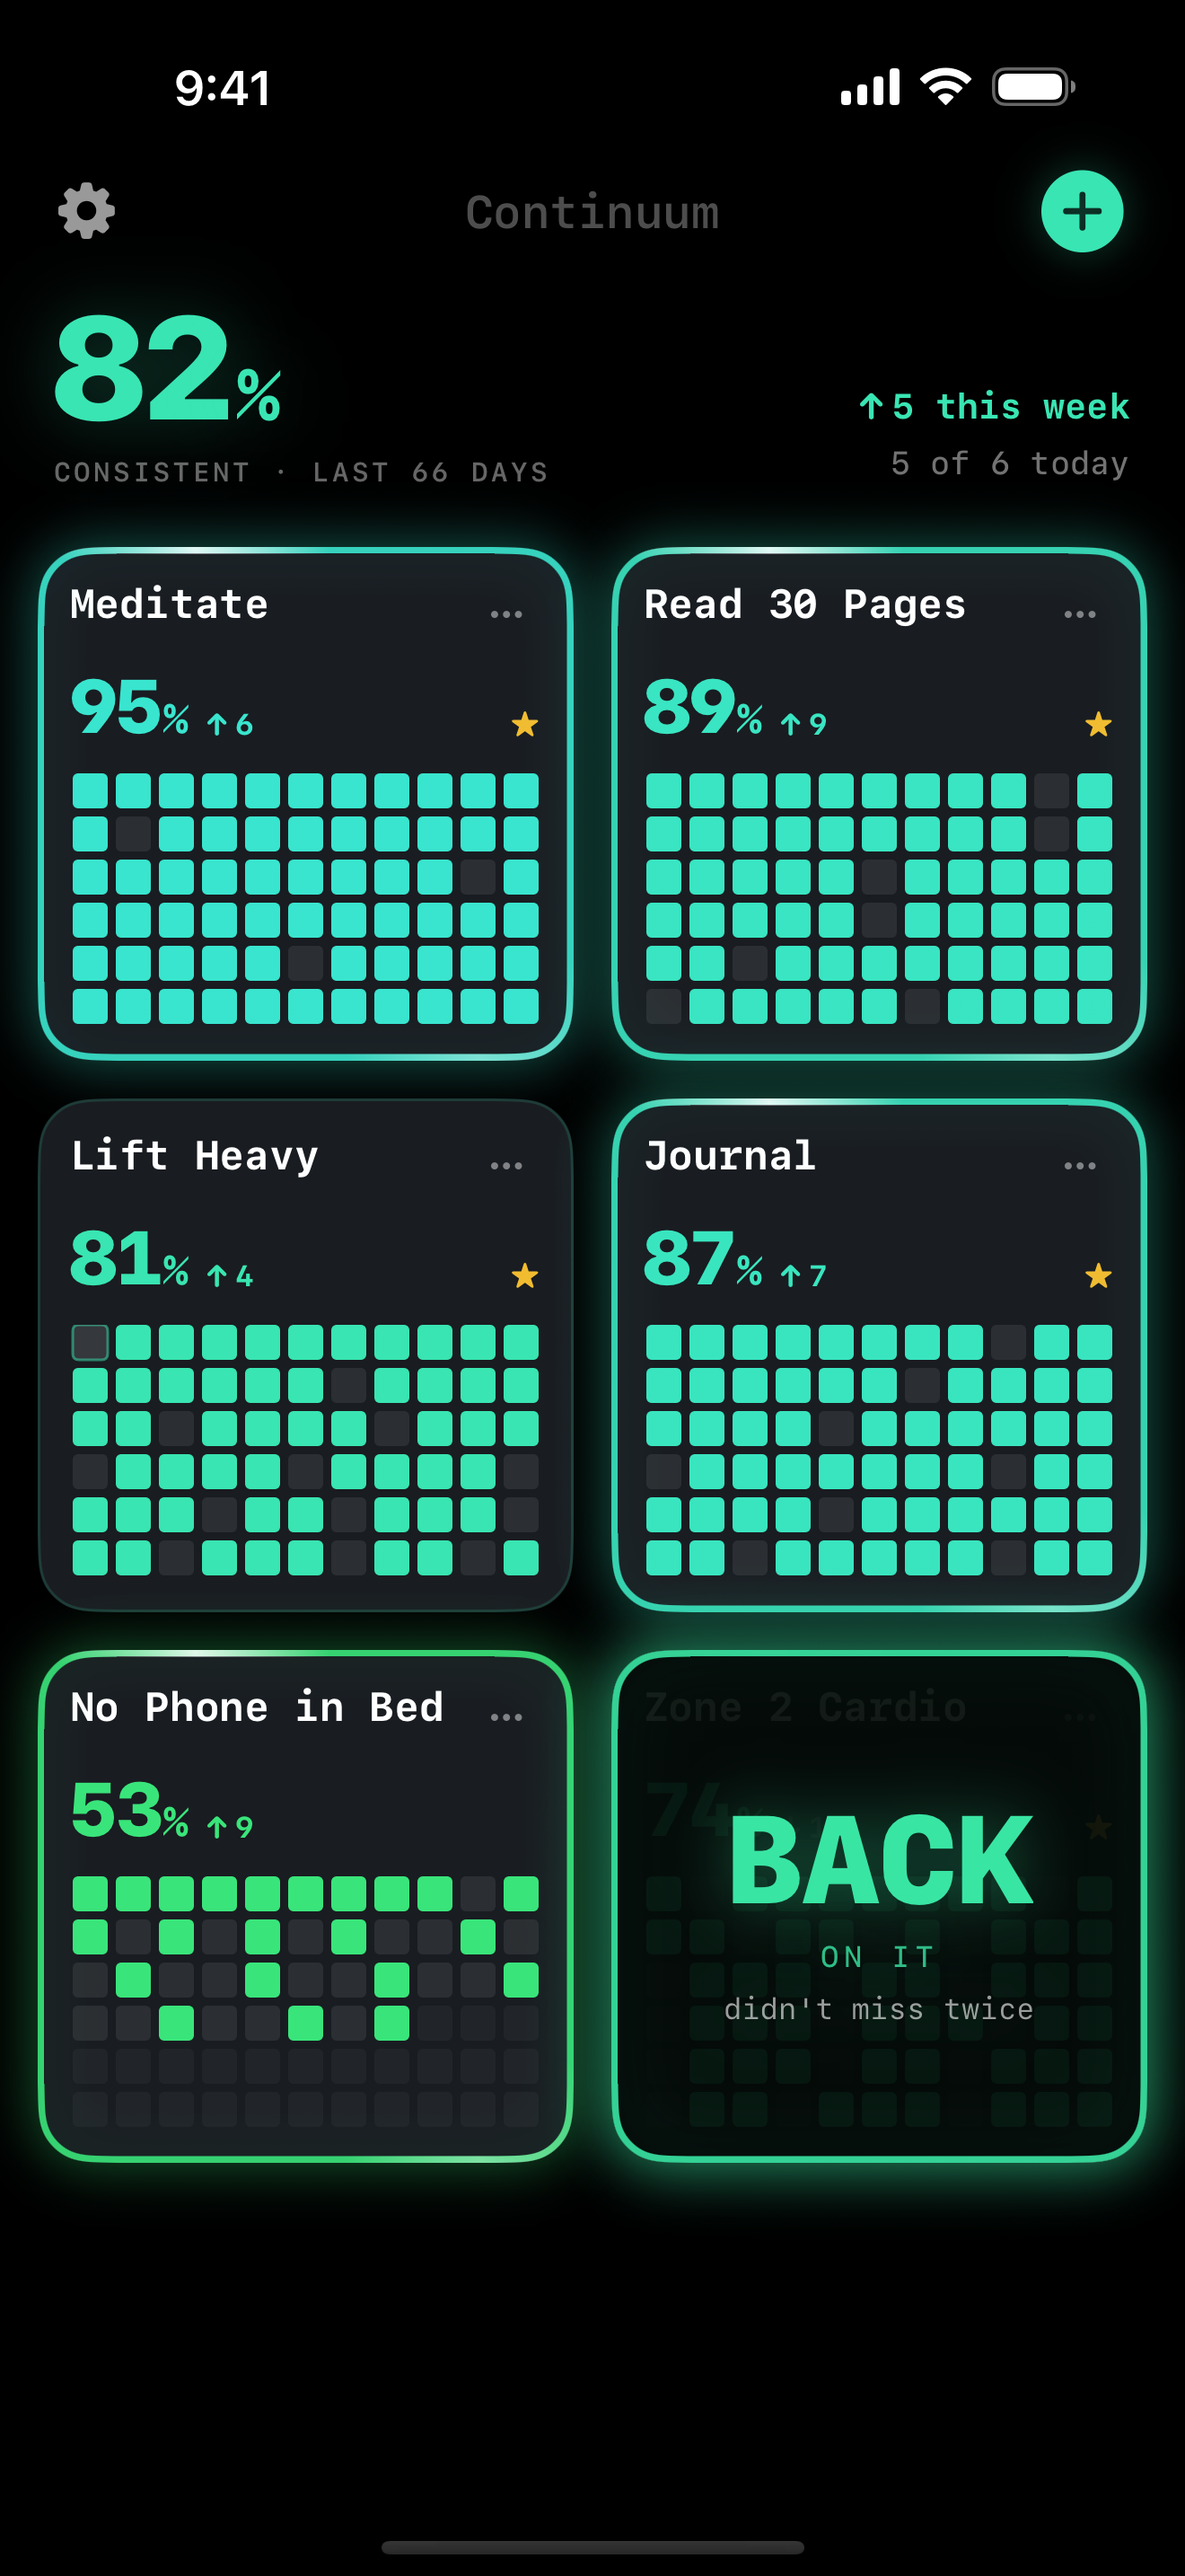
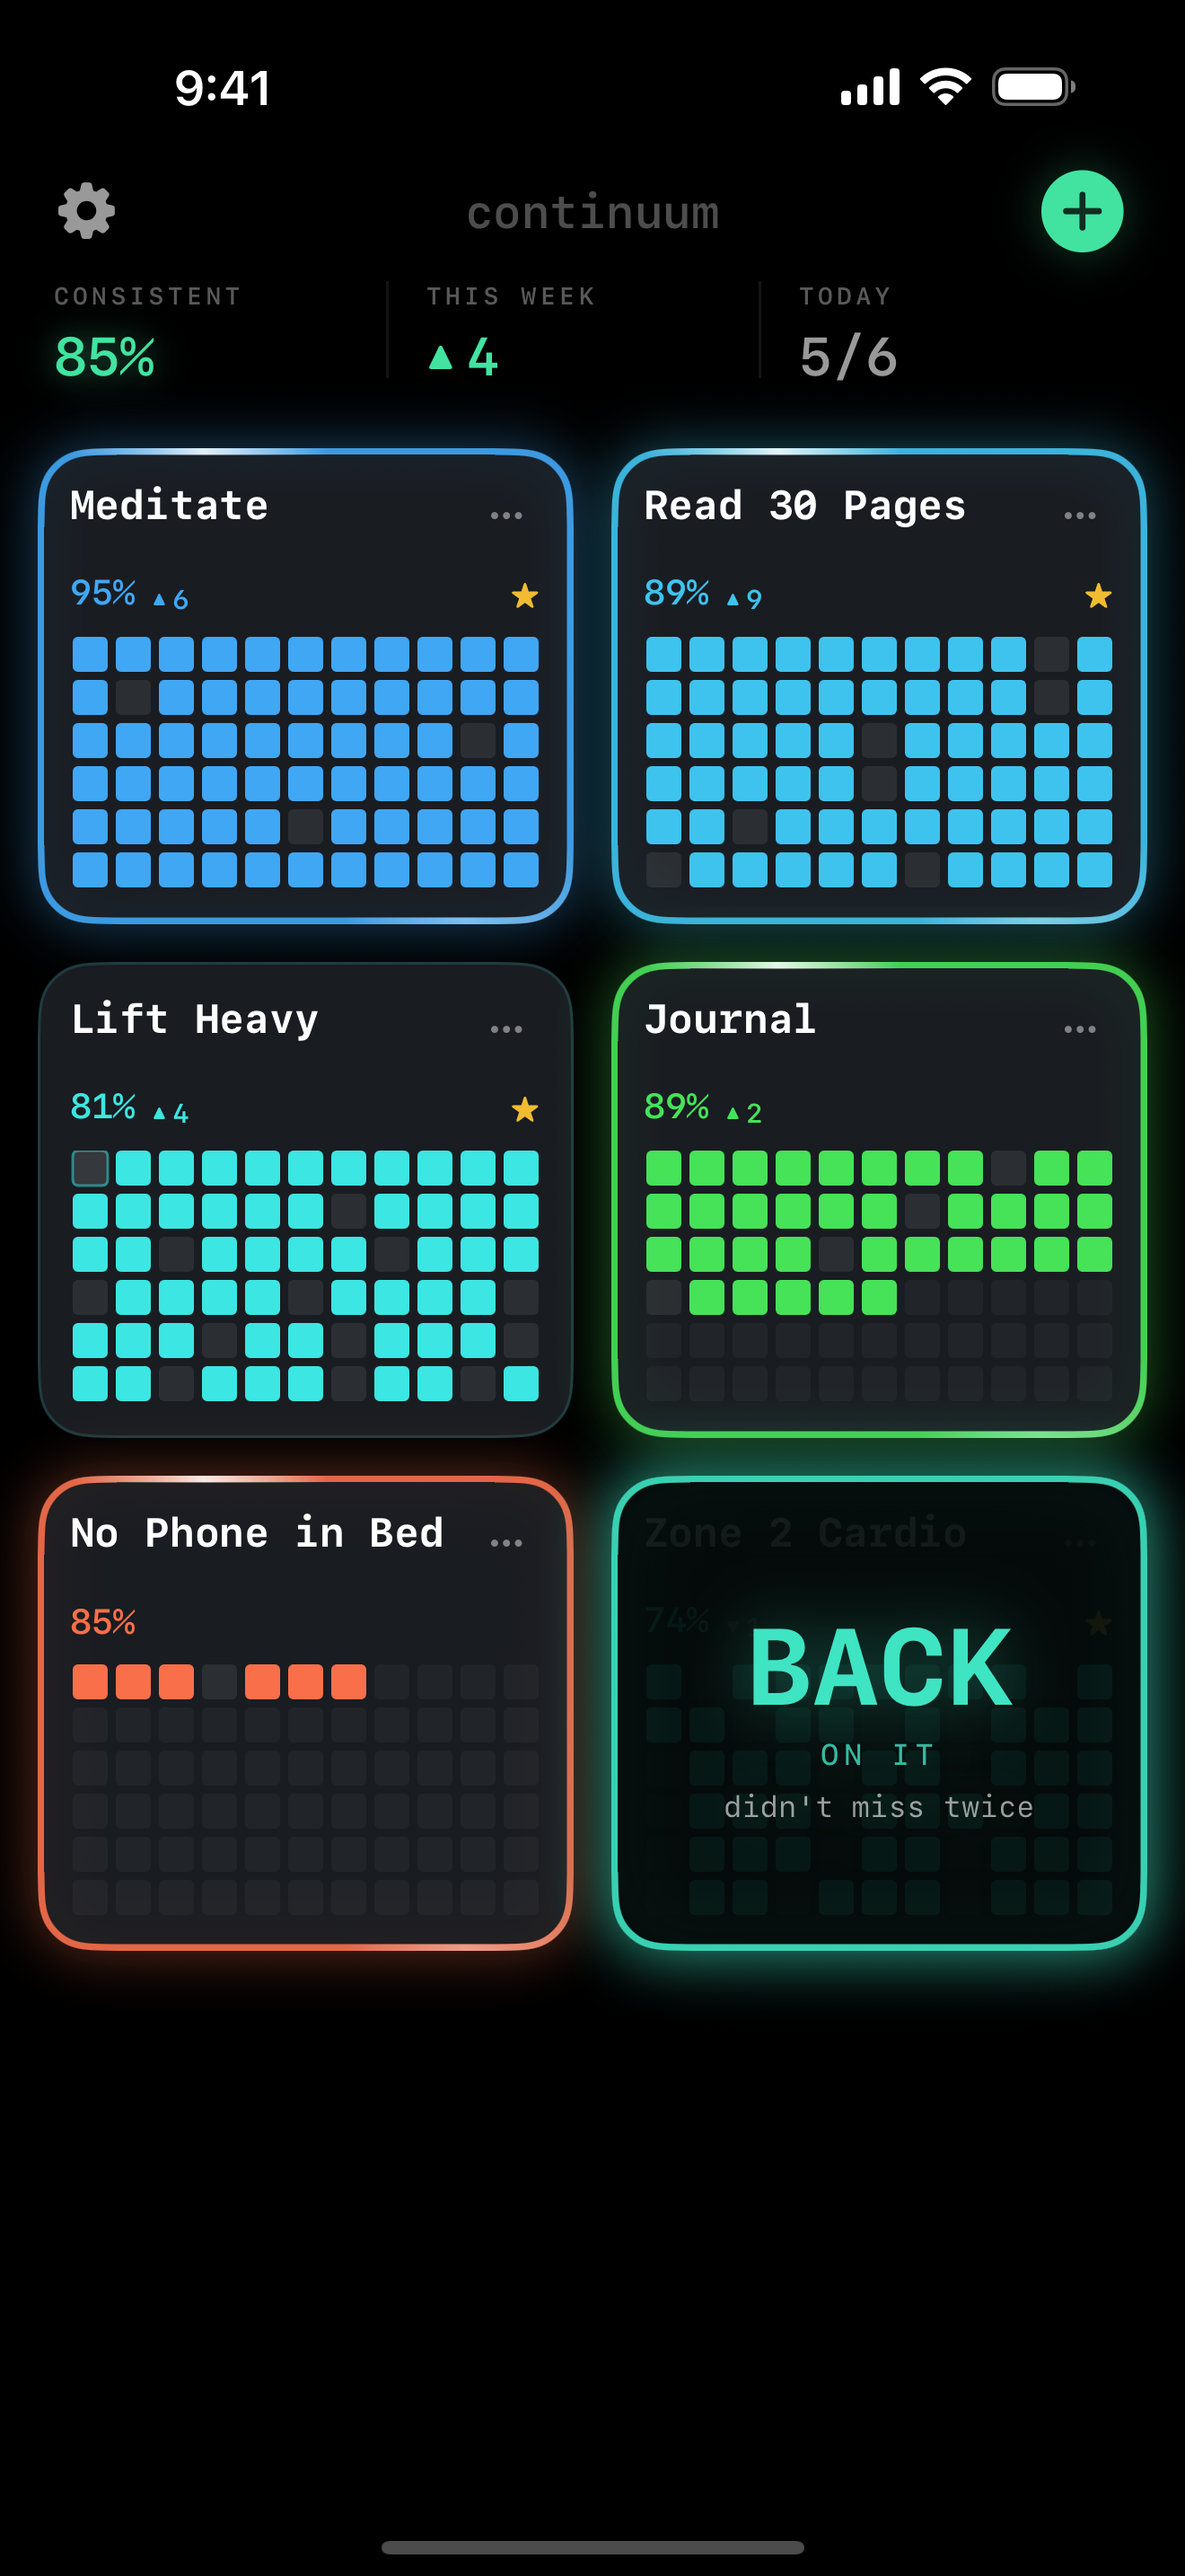
Screenshots, notes and spec for the readout look
- All five App Store shots recaptured: readouts in the app's mono, the
  lowercase title, and a home shot whose cards run coral to blue (85%,
  up 4, 4 of 6). The captions' accent is the new ramp's colour at 85%.
- What's New: the number is a small readout now, and a paragraph on
  colour following the grid.
- The spec records the type and colour rules as built; docs/ASO.md the
  new home shot.
- The release skill: the gesture shots were taken with temporary launch
  switches instead of DeviceHub taps, widgets can be checked by rendering
  their views in the app, and region captures of DeviceHub can catch
  other apps' windows.

diff --git a/scripts/caption-screenshots.py b/scripts/caption-screenshots.py
@@ -17,12 +17,13 @@ from PIL import Image, ImageDraw, ImageFilter, ImageFont
 W, H = 1320, 2868
 FONT = "/System/Library/Fonts/SFNSMono.ttf"
 
-# The app's colour for a habit around 85% consistent (HabitCardView.healthColor)
-TEAL = tuple(round(c * 255) for c in colorsys.hsv_to_rgb(164.5 / 360, 0.75, 0.9))
+# The app's colour for a habit kept up at 85% for 66 days (Shared/HabitPalette.swift
+# at 0.85): the azure between its cyan and blue stops
+ACCENT = tuple(round(c * 255) for c in colorsys.hsv_to_rgb(187 / 360, 0.74, 0.92))
 WHITE = (242, 244, 245)
 GREY = (122, 130, 138)
 
-# raw capture, output name, headline (white), headline (teal), small line,
+# raw capture, output name, headline (white), headline (accent), small line,
 # and optionally a region of the capture (px) to magnify over the phone
 SHOTS = [
     ("home.png", "01_consistency.png", "Miss a day.", "Nothing resets.", "one number per habit", None),
@@ -30,7 +31,7 @@ SHOTS = [
     ("stats.png", "03_week_by_week.png", "12 weeks.", "Watch it climb.", None, None),
     ("graduation.png", "04_66_days.png", "66 days.", "Not in a row.", None, None),
     # The half-traced border is invisible at thumbnail size, so the held card is magnified
-    ("hold_final.png", "05_hold.png", "Hold to mark", "the day.", "harder to do by accident", (20, 1195, 660, 1815)),
+    ("hold_final.png", "05_hold.png", "Hold to mark", "the day.", "harder to do by accident", (20, 1030, 660, 1628)),
 ]
 
 
@@ -41,12 +42,12 @@ def font(size, weight):
 
 
 def background():
-    """Dark slate like the app, with a soft teal glow where the phone sits."""
+    """Dark slate like the app, with a soft accent glow where the phone sits."""
     img = Image.new("RGB", (W, H), (9, 11, 13))
     glow = Image.new("L", (W, H), 0)
     ImageDraw.Draw(glow).ellipse((W * 0.05, H * 0.28, W * 0.95, H * 0.62), fill=255)
     glow = glow.filter(ImageFilter.GaussianBlur(220))
-    tint = Image.new("RGB", (W, H), TEAL)
+    tint = Image.new("RGB", (W, H), ACCENT)
     return Image.composite(tint, img, glow.point(lambda v: int(v * 0.22)))
 
 
@@ -67,12 +68,12 @@ def phone(raw, width):
 
 
 def callout(raw, box, width):
-    """A region of the capture, magnified, with a teal edge so it reads as a zoom."""
+    """A region of the capture, magnified, with an accent edge so it reads as a zoom."""
     region = raw.crop(box)
     region = region.resize((width, round(region.height * width / region.width)), Image.LANCZOS)
     card = Image.new("RGBA", (region.width + 16, region.height + 16), (0, 0, 0, 0))
     d = ImageDraw.Draw(card)
-    d.rounded_rectangle((0, 0, card.width - 1, card.height - 1), 56, fill=TEAL + (255,))
+    d.rounded_rectangle((0, 0, card.width - 1, card.height - 1), 56, fill=ACCENT + (255,))
     mask = Image.new("L", region.size, 0)
     ImageDraw.Draw(mask).rounded_rectangle((0, 0, region.width - 1, region.height - 1), 48, fill=255)
     card.paste(region, (8, 8), mask)
@@ -85,7 +86,7 @@ def compose(raw_path, headline, accent, small, zoom=None):
 
     big = font(108, "Bold")
     y = 170
-    for text, colour in ((headline, WHITE), (accent, TEAL)):
+    for text, colour in ((headline, WHITE), (accent, ACCENT)):
         x = (W - d.textlength(text, font=big)) / 2
         d.text((x, y), text, font=big, fill=colour)
         y += 132
@@ -107,7 +108,7 @@ def compose(raw_path, headline, accent, small, zoom=None):
         y = 1560
         glow = Image.new("RGBA", img.size, (0, 0, 0, 0))
         ImageDraw.Draw(glow).rounded_rectangle(
-            ((W - card.width) / 2, y, (W + card.width) / 2, y + card.height), 56, fill=TEAL + (150,))
+            ((W - card.width) / 2, y, (W + card.width) / 2, y + card.height), 56, fill=ACCENT + (150,))
         img = Image.alpha_composite(img, glow.filter(ImageFilter.GaussianBlur(40)))
         img.alpha_composite(card, ((W - card.width) // 2, y))
     return img.convert("RGB")

diff --git a/docs/superpowers/specs/2026-09-29-consistency-first-design.md b/docs/superpowers/specs/2026-09-29-consistency-first-design.md
@@ -57,18 +57,35 @@ It needs 7 counted days at the comparison point, so it appears from a habit's
 
 ## Where it shows
 
-- **Home header** — pooled consistency, big, with the week's trend and today's
-  count ("5 of 6 today"). 3.7 cut the greeting header for being text; this one
+- **Home header** — three readouts: pooled consistency, the week's trend, and
+  today's count ("4/6"). 3.7 cut the greeting header for being text; this one
   is the metric.
-- **Card** — the percentage replaces the ring and the streak row: big number,
-  trend, then the grid. Days before a habit's first completion draw fainter than
-  misses, so a new habit's grid agrees with its 100%.
-- **Stats** — consistency hero, a 12-week bar chart (each bar is one 7-day
+- **Card** — the percentage replaces the ring and the streak row: a readout
+  with its trend, then the grid. Days before a habit's first completion draw
+  fainter than misses, so a new habit's grid agrees with its 100%.
+- **Stats** — consistency readout, a 12-week bar chart (each bar is one 7-day
   block), then days done, all-time %, best run, perfect weeks, and the year
   heatmap. The streak survives here as "best run".
 - **Widgets** — percentage wherever a streak was.
-- **Share card** — the percentage is the hero; "DAY STREAK" goes.
+- **Share card** — the percentage leads; "DAY STREAK" goes.
 - **Settings** — the reorder list shows each habit's percentage.
+
+## Look
+
+Revised 2026-09-30, after 3.8 was tried on a phone: the big numbers read as a
+different font, they were too big, and the app should feel more like an old
+computer dashboard.
+
+- **Type.** One face, the app's SF Mono, at semibold or bold. No heavy, black
+  or SF Pro Rounded anywhere; the widget now sets the same mono the app does.
+  Numbers are readouts under small tracked labels: 20pt in the home header,
+  13pt on a card, 34pt on stats, 120px on the share card. Trends are ▲ and ▼.
+  The title is "continuum", lower case.
+- **Colour.** One ramp, `Shared/HabitPalette.swift`: coral red, orange, green,
+  cyan, blue. `HabitMath.colorProgress` places a habit on it — consistency
+  times the share of the 66-day window tracked, which is the share of the grid
+  that's lit. A week-old habit at 100% is coral; blue takes 66 days and a high
+  number. Pooled over n habits it's days done ÷ 66n.
 
 ## Moments
 
@@ -123,13 +140,13 @@ Five, captured from the running app on an iPhone 16 Pro Max simulator
 (1320x2868) with seeded data and a pinned 9:41 status bar, then captioned with
 PIL in SF Mono to match the UI:
 
-1. Home with the pooled number: "Miss a day. / nothing resets"
-2. Stats, bars climbing: the number getting better week by week
-3. A comeback moment in its card
-4. Hold to mark the day
-5. Habit formed at 66 days done
+1. Home with the pooled number: "Miss a day. / Nothing resets."
+2. A comeback moment in its card: "Missed yesterday? / Don't miss twice."
+3. Stats, bars climbing: "12 weeks. / Watch it climb."
+4. Habit formed at 66 days done: "66 days. / Not in a row."
+5. Hold to mark the day, magnified: "Hold to mark / the day."
 
-Caption copy gets finalised against the real captures.
+Recaptured 2026-09-30 for the look above; `docs/ASO.md` has the details.
 
 ## Testing
 

diff --git a/.claude/skills/continuum-release/SKILL.md b/.claude/skills/continuum-release/SKILL.md
@@ -337,6 +337,28 @@ screenshot. Menus (the card's ⋯, the share sheet) often need the item tapped
 twice. The home-screen widget gallery never accepted the "Add Widget" tap;
 it's easier to check widget layout another way.
 
+**Prefer launch switches to DeviceHub taps.** The 2026-09-30 screenshots
+took no clicks. Temporary env-gated code, reverted after:
+`HARNESS_COMPLETE=<habit>` in ContentView's `onAppear` marks the habit done
+and calls `checkForMilestones` (the comeback tile, or graduation after
+`seedForGraduationScreenshot`); `HARNESS_HOLD=<habit>` in HabitCardView sets
+`isAnimatingCompletion`, `completionProgress = 0.5`, `cardScale = 0.97`;
+`TileCelebration.duration = 120` keeps a tile up. Launch with
+`SIMCTL_CHILD_HARNESS_…=… xcrun simctl launch`, capture with `simctl io`.
+Commit the real work first so `git checkout` strips the switches cleanly.
+The stats sheet works the same way: present `HabitStatsView` in a `.sheet`
+over `ContentView` from a harness in `continuumApp.swift`.
+
+**Widgets without the home screen:** copy `continuumWidget/continuumWidget.swift`
+into `continuum/` (no `@main` there, no name clashes) and render
+`SmallWidgetView` at 170x170 and `MediumWidgetView` at 364x170, each with
+`.padding(16)` for the content margins and `.fontDesign(.monospaced)`. That's
+how the medium widget's overflow turned up. Delete the copy after.
+
+**Never `screencapture -R` the DeviceHub rectangle** to check its state: other
+apps' windows share that rectangle, and one capture caught a private Messages
+thread. `simctl io … screenshot` sees only the simulator.
+
 Mid-hold captures: press, `sleep 0.45`, screenshot, release. Any later and the
 screenshot's own latency pushes the release past the 0.9s hold and completes
 the habit, so reseed afterwards. The screenshot seed and the caption pipeline

diff --git a/docs/ASO.md b/docs/ASO.md
@@ -19,7 +19,7 @@ app are searching for streak trackers after one of them reset on them.
 
 Screenshots (`AppStoreScreenshots/3.8/`, five, 1320x2868):
 
-1. `01_consistency.png`: home with the pooled 82%. "Miss a day. / Nothing resets."
+1. `01_consistency.png`: home, pooled 85%, cards running coral (a week old) to blue. "Miss a day. / Nothing resets."
 2. `02_never_miss_twice.png`: a comeback in its card. "Missed yesterday? / Don't miss twice."
 3. `03_week_by_week.png`: stats, 12 bars climbing. "12 weeks. / Watch it climb."
 4. `04_66_days.png`: graduation. "66 days. / Not in a row."
@@ -31,7 +31,9 @@ capture with a 9:41 status bar, then
 `python3 scripts/caption-screenshots.py <raw dir> AppStoreScreenshots/3.8`.
 The raw captures are in `AppStoreScreenshots/3.8/raw/`. Xcode 27 has no
 Simulator.app; DeviceHub shows the screen and takes clicks, but roughly one in
-two gets dropped, so check every capture.
+two gets dropped, so check every capture. The 2026-09-30 set used no clicks at
+all: the gesture shots (comeback, hold, graduation) came from temporary launch
+switches, described in the release skill, reverted once captured.
 
 Apply with `node scripts/asc-metadata.mjs --apply` and
 `node scripts/asc-screenshots.mjs AppStoreScreenshots/3.8 --replace` while 3.8
